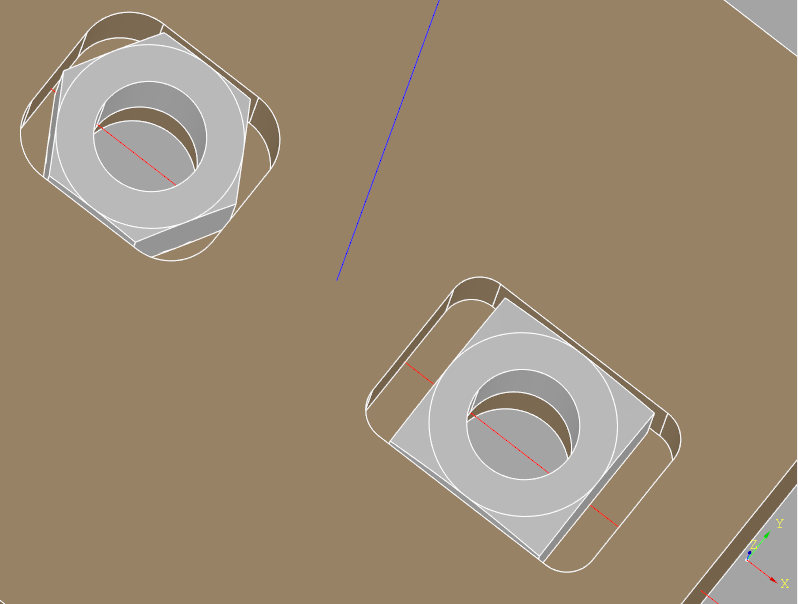
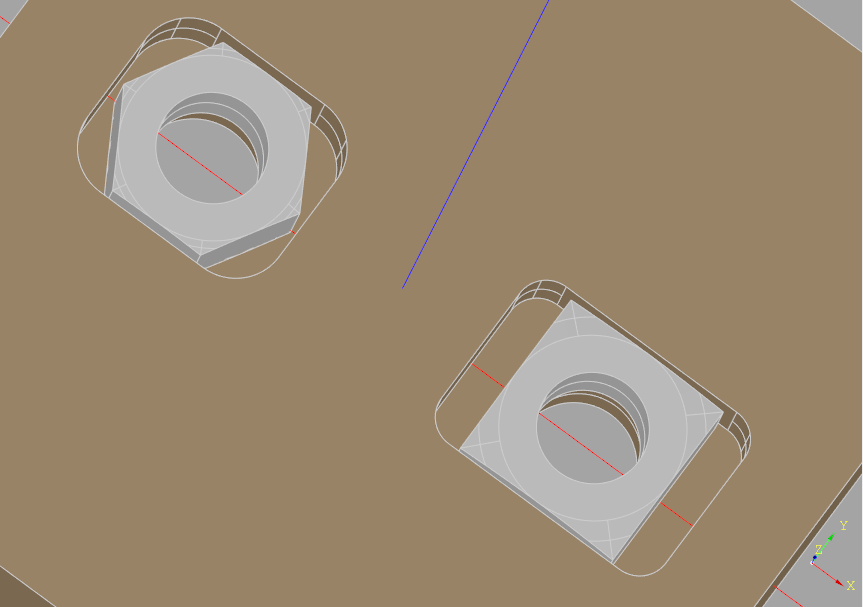
Minor documentation improvement

diff --git a/examples/captive_nuts.py b/examples/captive_nuts.py
@@ -11,12 +11,13 @@ block = (
     .faces(">Z")
     .workplane()
     .pushPoints([(-12.5, 0)])
-    .clearanceHole(fastener=hex_nut, captiveNut=True, baseAssembly=test_assembly)
+    .clearanceHole(
+        fastener=hex_nut, fit="Loose", captiveNut=True, baseAssembly=test_assembly
+    )
     .pushPoints([(+12.5, 0)])
     .clearanceHole(fastener=square_nut, captiveNut=True, baseAssembly=test_assembly)
 )
 test_assembly.add(block, color=cq.Color("tan"))
 
 if "show_object" in locals():
-    show_object(block, name="block")
     show_object(test_assembly, name="test_assembly")

diff --git a/docs/fastener.rst b/docs/fastener.rst
@@ -407,6 +407,8 @@ Note that with imperial sized holes (e.g. 7/16), the drill sizes could be a frac
 or a numbered or lettered size (e.g. U). This information can be added to your designs with the
 :ref:`drafting <drafting>` sub-package.
 
+Captive Nuts
+============
 
 The :meth:`~extensions_doc.Workplane.clearanceHole` method has a ``captiveNut`` parameter that
 when used with a hex or square nut will create a hole that captures the nut such that it
@@ -420,6 +422,9 @@ Which results in:
 	:alt: captive_nuts
 
 The space around the nuts is controlled by the ``fit`` parameter.
+
+Insert Nuts
+===========
 
 The :meth:`~extensions_doc.Workplane.insertHole` is much like the previous three custom hole
 methods but creates holes for heat set inserts in plastic parts - commonly used in 3D printing.
